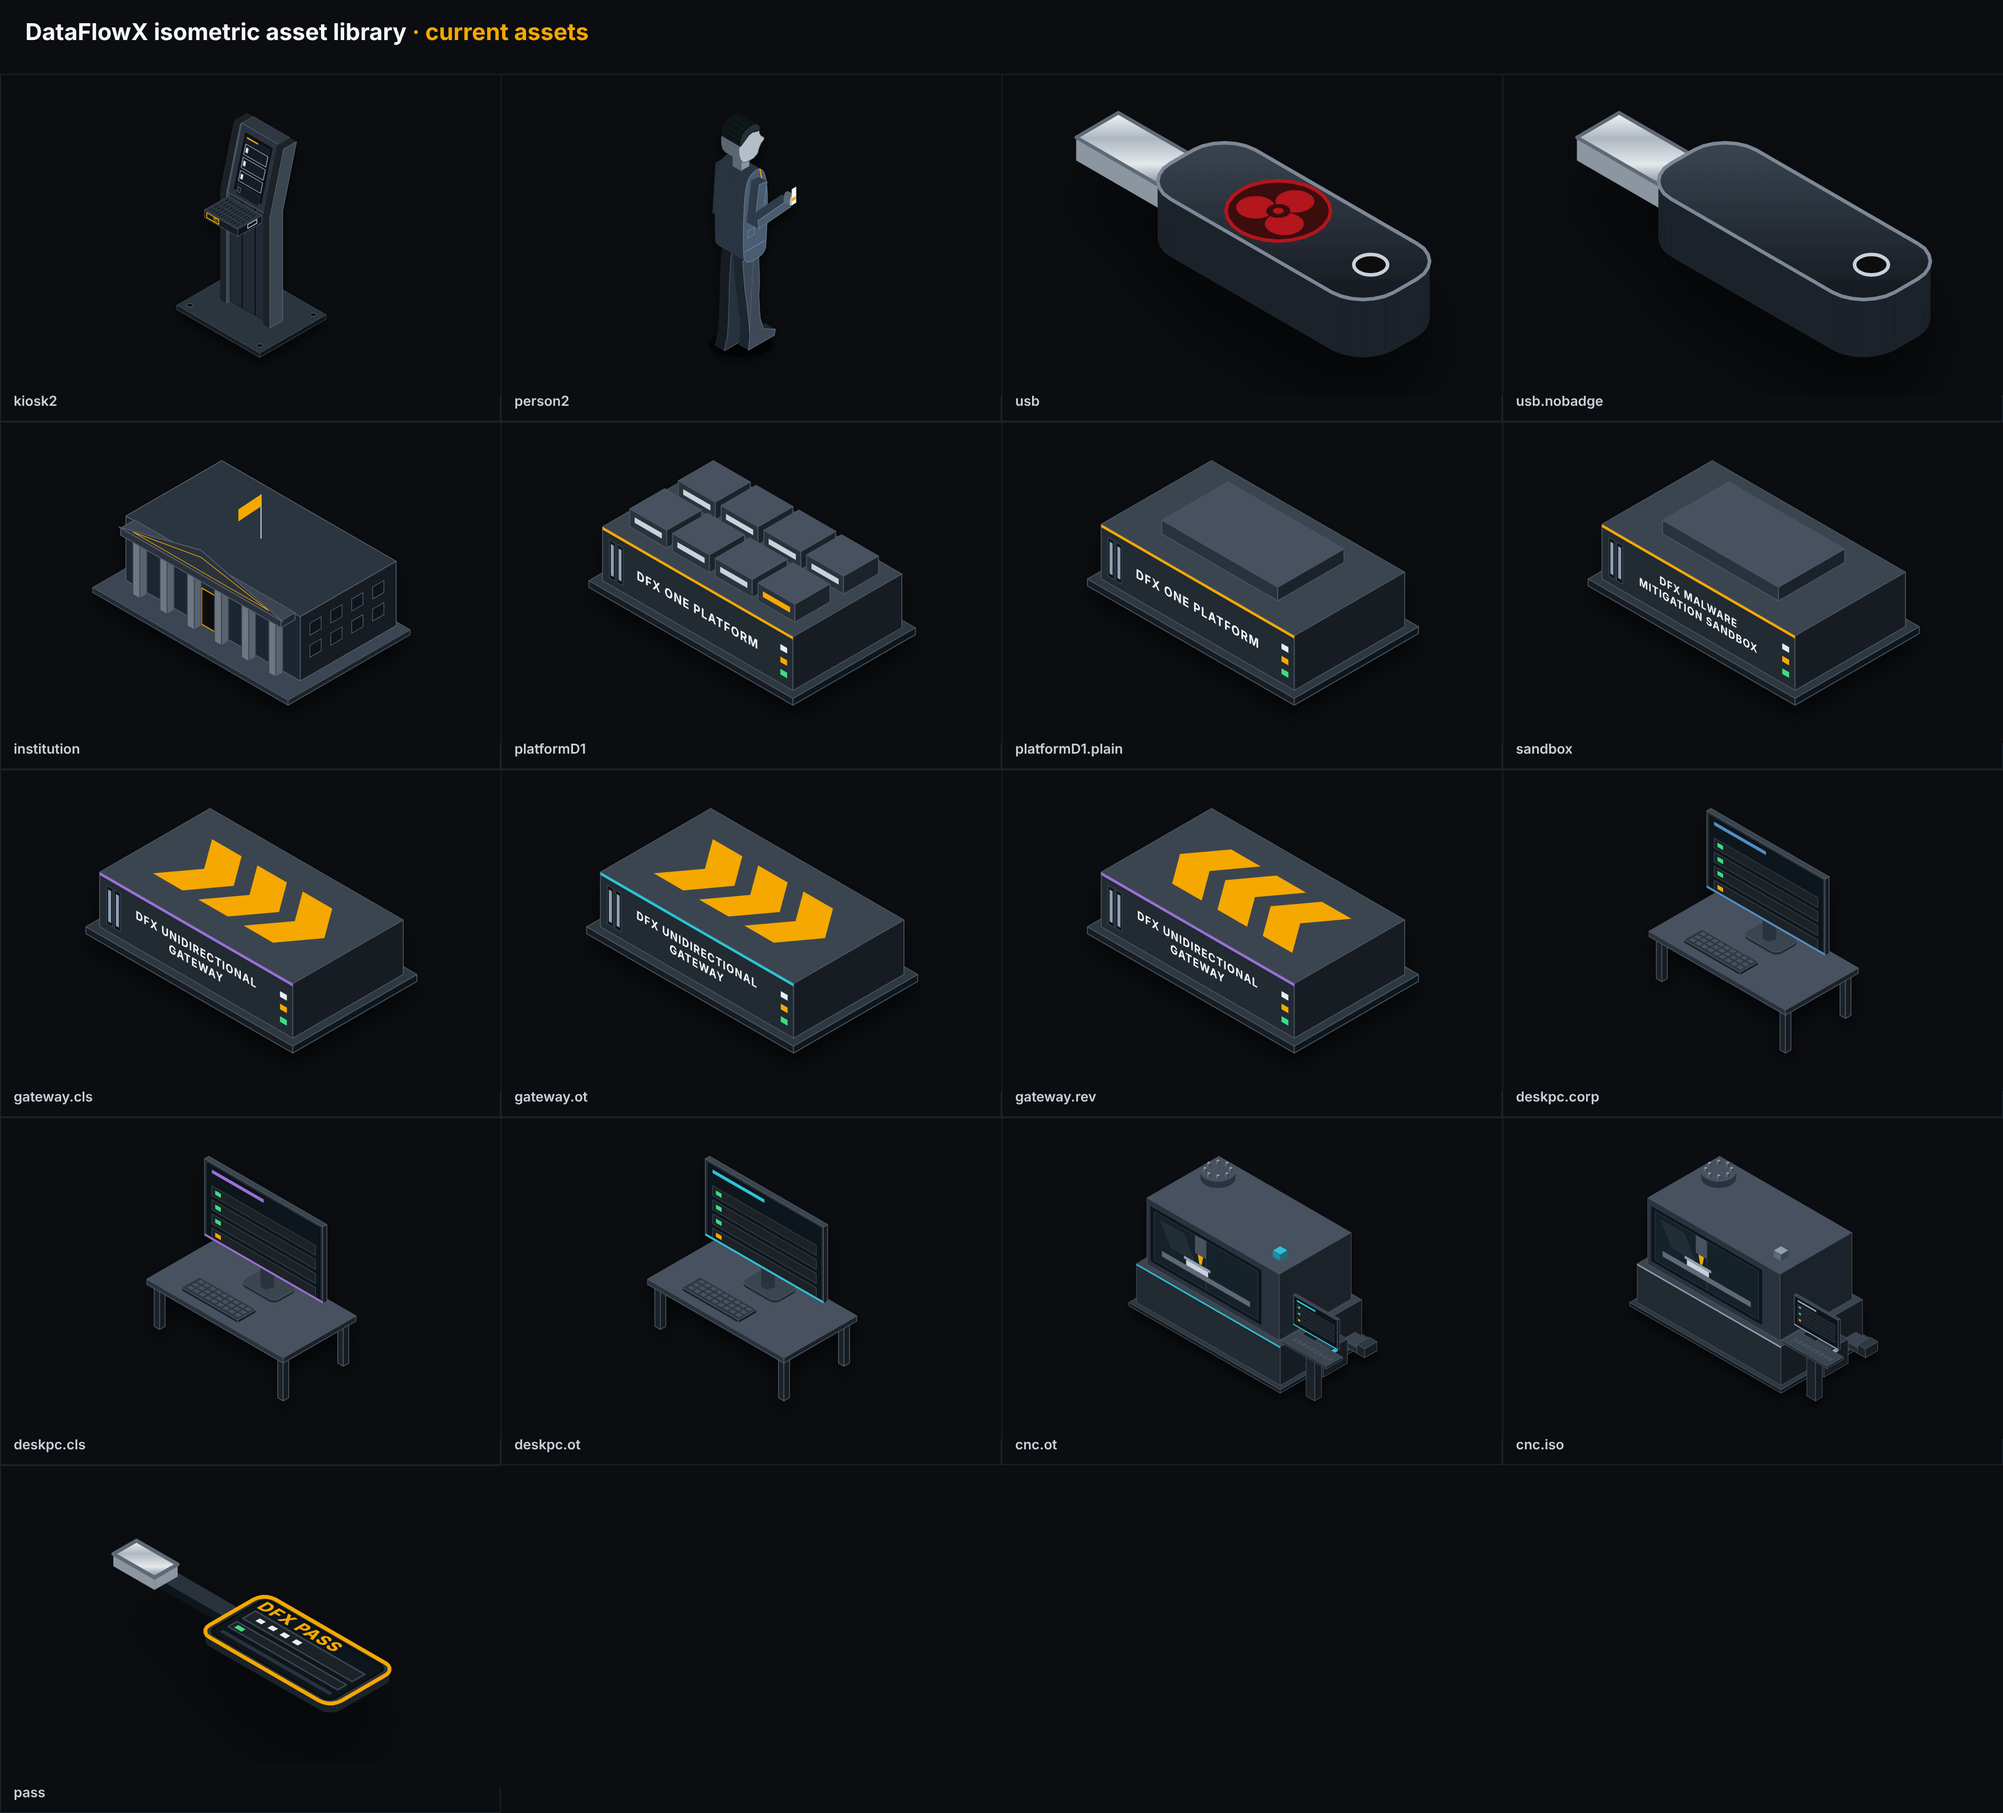
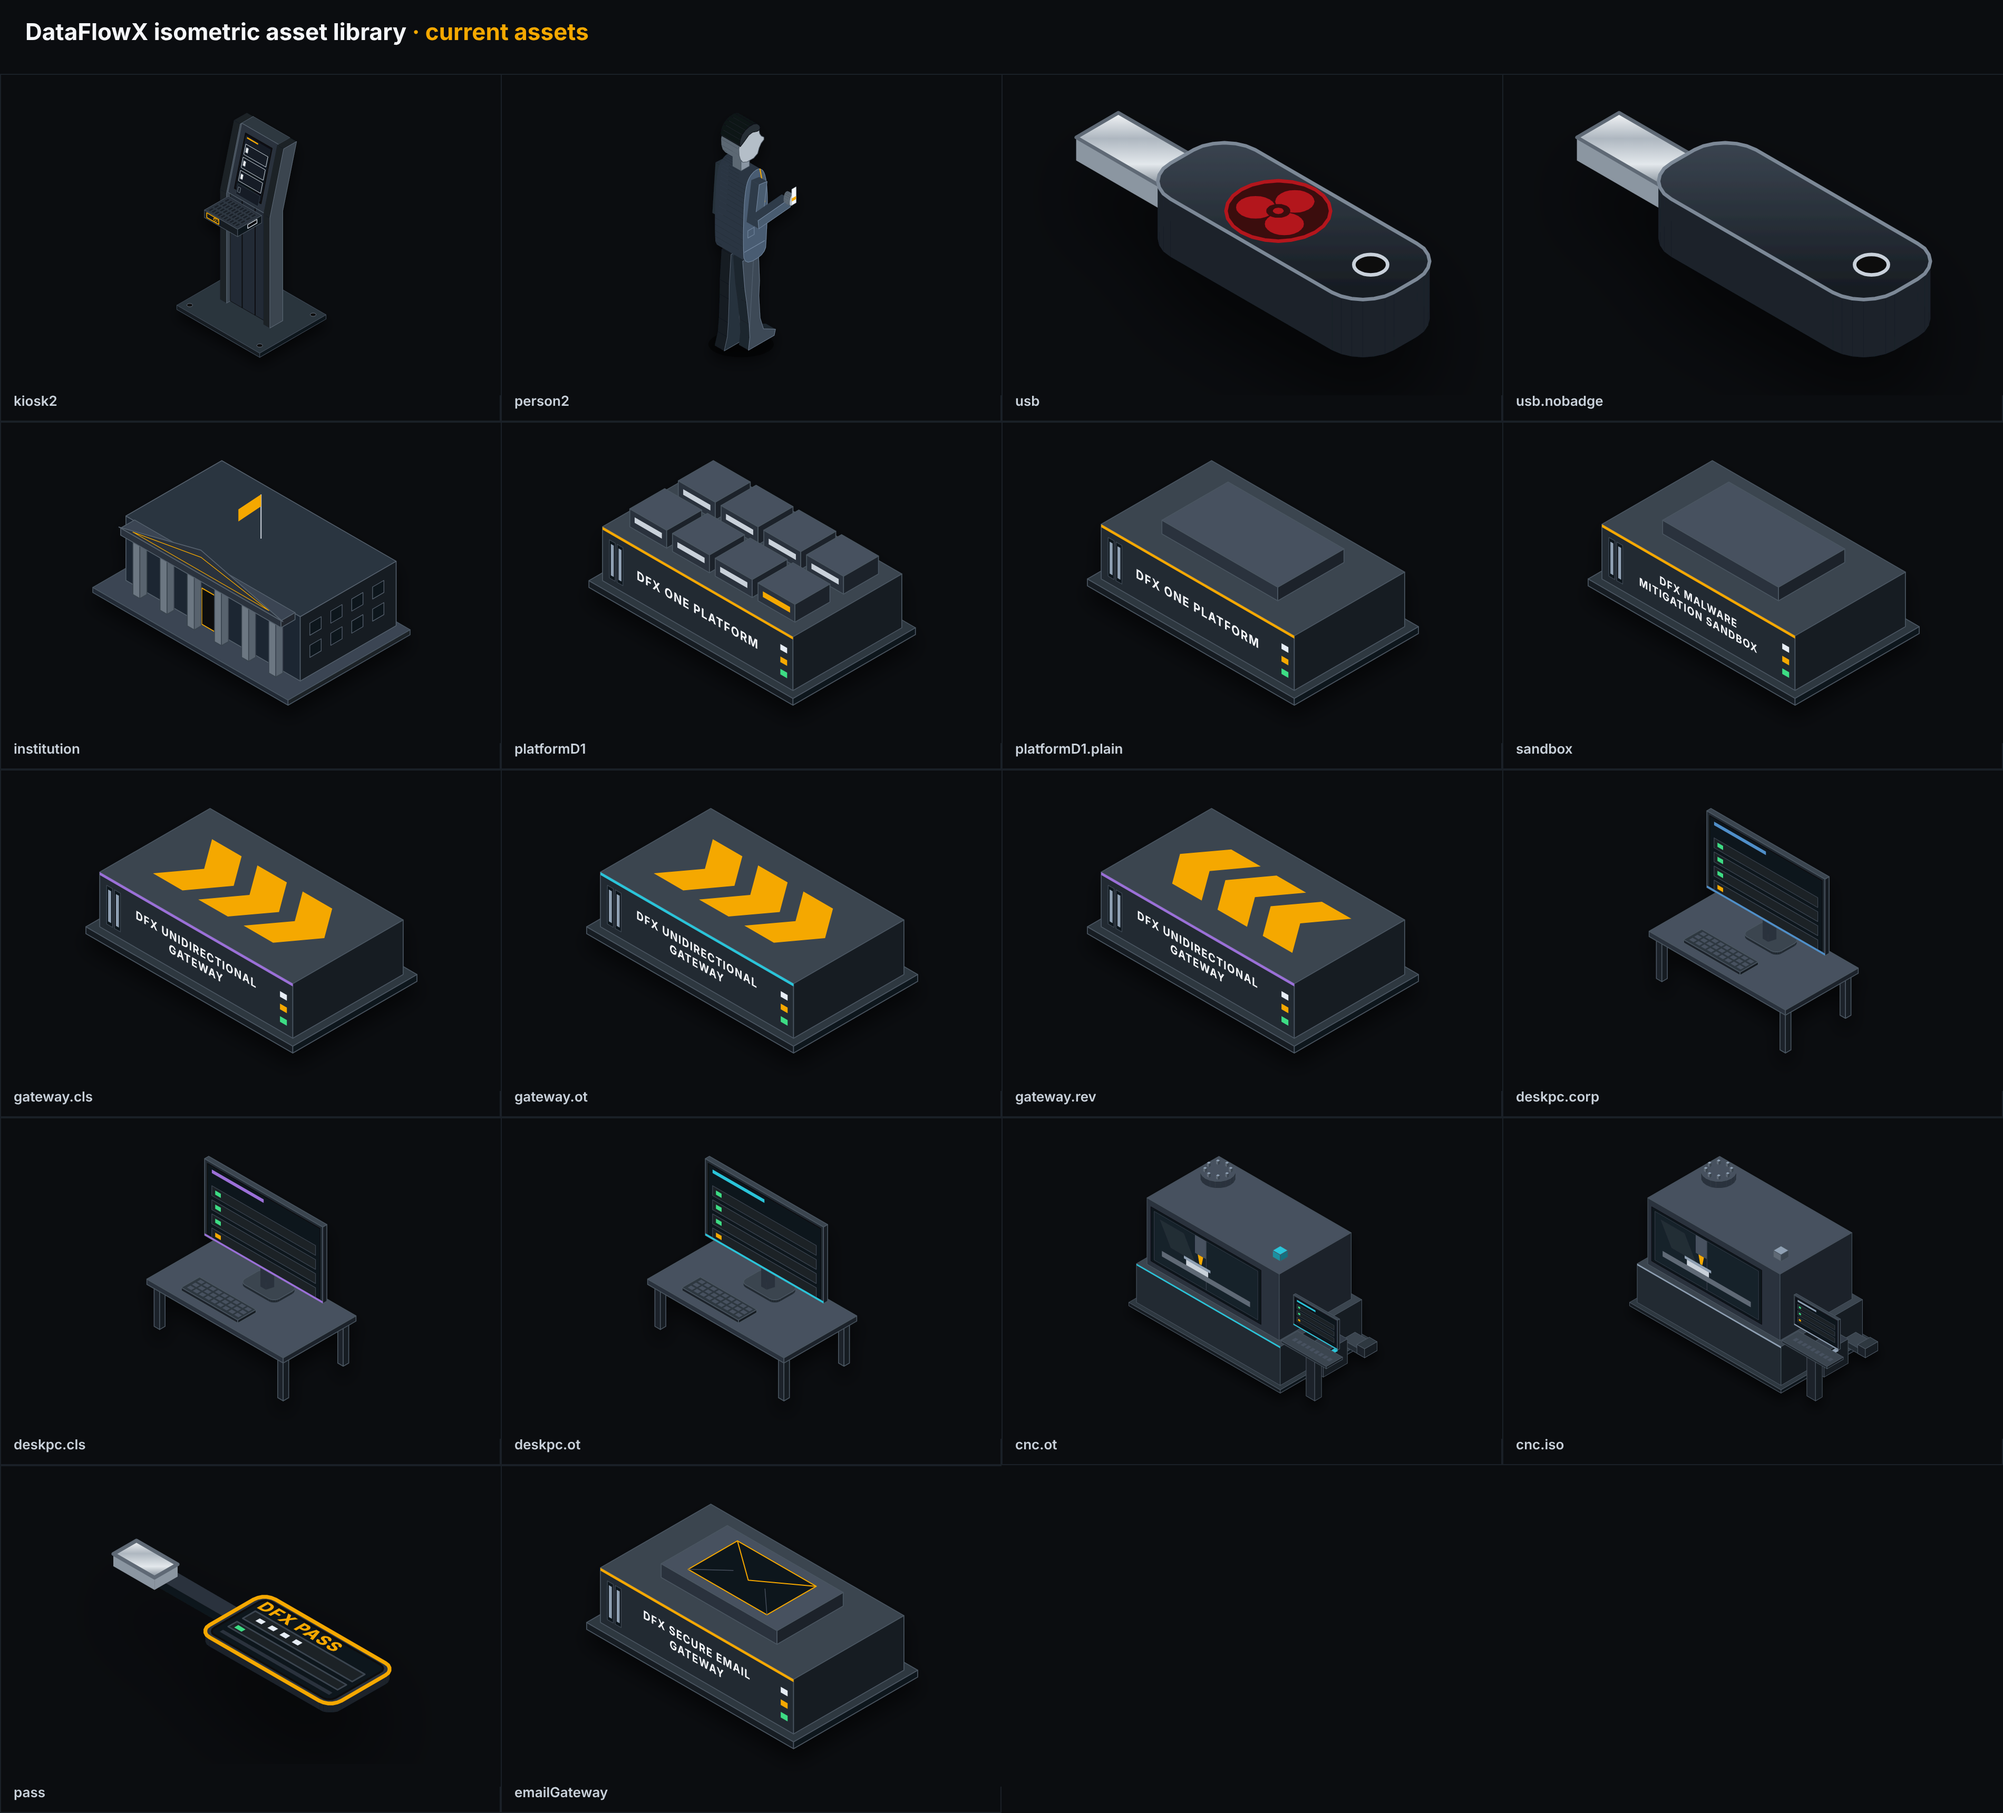
Add emailGateway asset (DFX Secure Email Gateway)
New id: emailGateway (ISO.assets.emailGateway), composed on platformD1:
same plate, bays, LEDs, name plate and gold rail; name plate
"DFX SECURE EMAIL / GATEWAY" (official name confirmed by Burak);
lid glyph is a flat gold-outlined envelope (80 x 50), approved after
comparing shield, padlock, magnifier and in/out-arrow alternatives.
opts: lines, fs, rail. Anchors: tops, front, center, glyph.

Registered in asset-manifest.json, ASSET_CATALOG.md and READMEs;
previews refreshed (emailGateway.png, _sheet.png); baseline hash added.
lint_asset.js: ALL CLEAN. Existing assets unchanged (baseline verified:
iso-lib.js diff is 16 added lines, 0 removed; baseline file gains one line).

Claude-Session: https://claude.ai/code/session_01MvE8LNeTTwFG81mxctigkb

Changed region(s): [[0.2795, 0.8087, 0.4658, 0.9642]]

diff --git a/Common/iso/iso-lib.js b/Common/iso/iso-lib.js
@@ -546,4 +546,20 @@
     P([u(0.05, 0.84), u(0.95, 0.84), u(0.95, 0.9), u(0.05, 0.9)], '#2A323C', 'none', G);
     return { screen: I(ox + 16, oy + 8, 2.15), plug: I(ox - 40, oy + 8, 2.6), top: I(ox + 16, oy + 8, 2.15) };
   };
+
+  /* Asset 10: DFX Secure Email Gateway. Rack appliance composed on platformD1 (same plate, bays, LEDs, name plate, rail); only the text and one lid glyph differ.
+     Glyph: flat gold-outlined envelope on the glass-chamber lid (chamber top = z 6+48+12). opts.rail overrides the gold rail (zone colour per scene). */
+  ISO.assets.emailGateway = function (g, ox, oy, opts) {
+    opts = opts || {};
+    var r = ISO.assets.platformD1(g, ox, oy, { lines: opts.lines || ['DFX SECURE EMAIL', 'GATEWAY'], fs: opts.fs || 10, mods: 0, rail: opts.rail });
+    var w = 196, d = 112, zt = 6 + 48 + 12 + 0.2, host = g.lastChild;           // host = the asset's own shadow group
+    var xm = w / 2, ym = d / 2, x0 = xm - 40, x1 = xm + 40, y0 = ym - 25, y1 = ym + 25;   // envelope 80 x 50 (about 1.6 : 1)
+    function q(x, y) { return I(ox + x, oy + y, zt); }
+    P([q(x0, y0), q(x1, y0), q(x1, y1), q(x0, y1)], '#0E131A', '#F5A800', host, 1.4);                                          // envelope body
+    se('polyline', { points: ISO.pts([q(x0, y0), q(xm, ym + 4), q(x1, y0)]), fill: 'none', stroke: '#F5A800', 'stroke-width': 1.4, 'stroke-linejoin': 'round' }, undefined, host); // flap
+    se('polyline', { points: ISO.pts([q(x0, y1), q(xm - 16, ym + 3)]), fill: 'none', stroke: '#46515E', 'stroke-width': 1 }, undefined, host);   // fold lines
+    se('polyline', { points: ISO.pts([q(x1, y1), q(xm + 16, ym + 3)]), fill: 'none', stroke: '#46515E', 'stroke-width': 1 }, undefined, host);
+    r.glyph = I(ox + xm, oy + ym, zt);
+    return r;
+  };
 })(window);

diff --git a/Common/iso/templates/example-secure-email-gateway.js b/Common/iso/templates/example-secure-email-gateway.js
@@ -1,4 +1,5 @@
-/* WORKED EXAMPLE / PROPOSAL, NOT part of iso-lib.js and NOT approved artwork.
+/* PROMOTED 2026-11-22: this proposal is now ISO.assets.emailGateway in iso-lib.js (envelope resized to 80 x 50). Kept as a worked example only; do not load it next to iso-lib.js.
+   Original note: WORKED EXAMPLE / PROPOSAL, NOT part of iso-lib.js and NOT approved artwork.
    Shows how a new rack-appliance product (here: "DFX Secure Email Gateway", official name still to be confirmed by Burak) is made
    by COMPOSITION on platformD1: same plate, bays, LEDs, name plate, rail. Only the text and one lid glyph differ.
    To promote: confirm the name, copy this function into iso-lib.js after ISO.assets.gateway, add the manifest entry

diff --git a/Common/docs/ASSET_CATALOG.md b/Common/docs/ASSET_CATALOG.md
@@ -17,6 +17,7 @@ Call: `ISO.assets.<fn>(g, ox, oy, opts)`; scale a whole asset with a wrapper gro
 | deskpc(.corp/.cls/.ot) | Desk PC (portal / standard user / admin) | current | 150·80·~138 | 3 |
 | cnc(.ot/.iso) | CNC machine + console | current | ~396·170·~214 | 1.2 |
 | pass | DFX PASS handheld | current | 32·16·1.9 (+cable) | 9 |
+| emailGateway | DFX Secure Email Gateway | current | 196·112·54 (+12 chamber) | 2 |
 | kiosk, person, platformA/B/C/D | superseded | legacy | | |
 
 Legacy assets stay for old renders. NEVER use them in new work and never change them.
@@ -77,6 +78,18 @@ Legacy assets stay for old renders. NEVER use them in new work and never change 
 - 32x16x1.9 slab `rr` r2.6 with a 1.2 px gold `#F5A800` edge ring, glass screen inset 1.2, title text `DFX PASS` Inter 800 3.6 gold on the screen, badge row, 4 PIN dots `#E6EDF5`, status row with green square, status line; USB cable (`opts.cable`, default 34, 3.6 wide) with steel plug 10x5.6 leaving toward -x.
 - Environment usage: scaled x1.8 and lifted 72*s so it sits above the isolated CNC bench; cable 16.
 - **Returns** `screen`, `plug`, `top`.
+
+## emailGateway : DFX Secure Email Gateway
+- **Route**: composition on `platformD1` (rack-appliance family). Same plate, left bays, right LEDs, centred name plate and rail as the Gateway and Sandbox. Only the text and one lid glyph differ. Official name confirmed by Burak on 2026-11-22.
+- **Name plate**: `['DFX SECURE EMAIL','GATEWAY']`, Inter 700, fs 10, UPPERCASE (override with `opts.lines`, `opts.fs`).
+- **Rail**: gold `#F5A800` by default; `opts.rail` passes a zone colour per scene (no zone variants are registered).
+- **Lid**: default glass chamber (top at z 66) with a flat envelope at z 66.2: 80 x 50 units (about 1.6 : 1), centred on the chamber, `#0E131A` fill, 1.4 px `#F5A800` outline, flap polyline (1.4 px gold) from the two back corners to a point 4 units behind the centre, two 1 px `#46515E` fold lines from the front corners.
+- **Signature details**: (1) gold-outlined envelope, (2) the standard gold rail + LEDs.
+- **opts**: `lines`, `fs`, `rail`.
+- **Returns** (screen): `tops` (chamber top), `front`, `center`, `glyph` (envelope centre).
+- **Colours**: tokens only (`#0E131A`, `#F5A800`, `#46515E` plus the platformD1 set).
+- **Placement**: same footprint as the Gateway; e.g. `emailGateway(g, x, y)`; scale with `sc()` like the other appliances.
+- **Preview**: `iso/previews/emailGateway.png`. Template that produced it: `iso/templates/example-secure-email-gateway.js` (now promoted; keep as worked example).
 
 ---
 ## Legacy (do not use)

diff --git a/Common/README.md b/Common/README.md
@@ -6,7 +6,7 @@
 - Naming on screen: DFX Media Transfer Station, DFX One (Platform), DFX TruCDR, DFX Malware Mitigation Sandbox, DFX Unidirectional Gateway, DFX PASS. Third network = **Industrial OT** in speech, **OT** on screen.
 
 ## iso/iso-lib.js
-`ISO.I(x,y,z)` projects world coordinates to the screen; `ISO.assets.<name>(group, x, y, opts)` draws an asset. Current: `kiosk2`, `person2`, `usb`, `institution`, `platformD1`, `sandbox`, `gateway`, `deskpc`, `cnc`, `pass`. Legacy (old renders only): `kiosk`, `person`, `platformA/B/C/D`. Assets are resized by scaling their group about a ground anchor. Text on floors/faces uses matrix transforms. Flow arrowheads are drawn flat on the floor.
+`ISO.I(x,y,z)` projects world coordinates to the screen; `ISO.assets.<name>(group, x, y, opts)` draws an asset. Current: `kiosk2`, `person2`, `usb`, `institution`, `platformD1`, `sandbox`, `gateway`, `deskpc`, `cnc`, `pass`, `emailGateway`. Legacy (old renders only): `kiosk`, `person`, `platformA/B/C/D`. Assets are resized by scaling their group about a ground anchor. Text on floors/faces uses matrix transforms. Flow arrowheads are drawn flat on the floor.
 
 ## Documentation for agents (start at `docs/README.md`)
 `docs/STYLE_GUIDE.md` (strict rules), `docs/ASSET_CATALOG.md` (exact specs of every asset), `docs/NEW_ASSET_PLAYBOOK.md` (how to add a product such as DFX SEG), `docs/SCENE_AND_UI_SPEC.md` (environments, popups, captions, timing); machine-readable `iso/tokens.json`, `iso/asset-manifest.json`, `iso/baseline-hashes.json`; previews in `iso/previews/_sheet.png`.

diff --git a/README.md b/README.md
@@ -4,7 +4,7 @@ DataFlowX marketing production kit: reusable assets and one folder per video/pro
 
 ```
 Common/                          shared by every project
-  iso/iso-lib.js                 isometric SVG asset library (kiosk2, person2, USB, institution, DFX One platform, sandbox, gateway, desk PC, CNC, PASS)
+  iso/iso-lib.js                 isometric SVG asset library (kiosk2, person2, USB, institution, DFX One platform, sandbox, gateway, desk PC, CNC, PASS, Secure Email Gateway)
   iso/tokens.json                design tokens (colours, face groups, strokes, type); iso/asset-manifest.json asset registry; iso/baseline-hashes.json regression hashes
   iso/previews/                  _sheet.png (all current assets) + one PNG per asset (clean | anchors | map scale)
   iso/templates/                 worked example for a new product asset (proposal)
